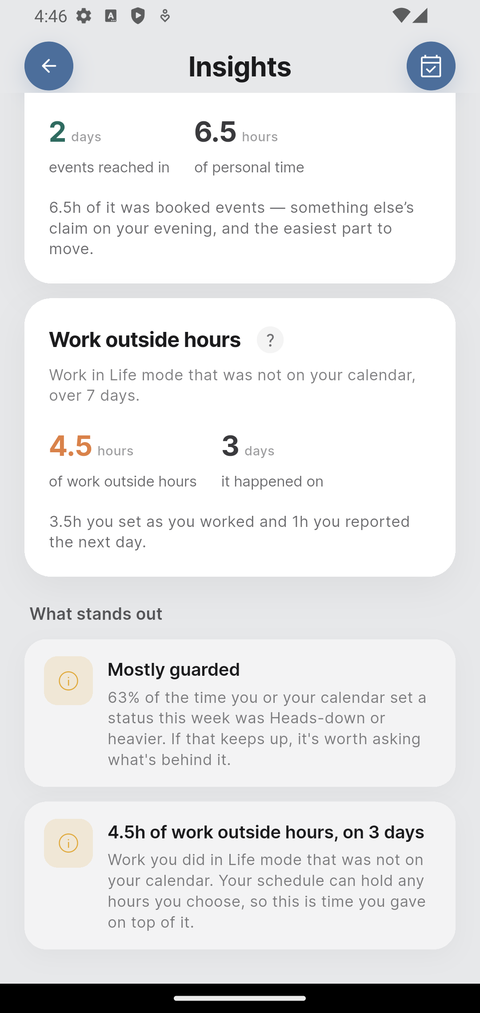
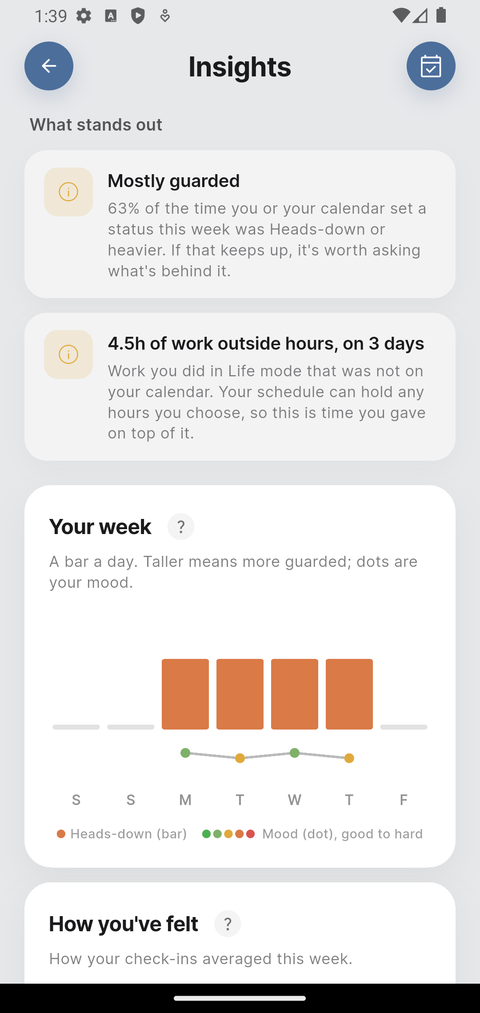
tutorial_insights_order

Changed region(s): [[0.0312, 0.0918, 0.9688, 0.9793], [0.0625, 0.0, 0.1562, 0.0306], [0.875, 0.0, 0.9375, 0.0306]]

diff --git a/tutorial/index.html b/tutorial/index.html
@@ -1514,11 +1514,36 @@
     it says anything; until then it tells you so rather than guessing.
   </p>
 
+  <div class="step" id="insights-what-stands-out">
+    <div class="step-body">
+      <h3><span class="num">1</span>What stands out</h3>
+      <p>
+        Insights opens with what stands out, written in sentences: patterns BAI has noticed across the
+        period, such as most of the week spent Heads-down or heavier, less room as the
+        week goes on, or work outside your hours adding up.
+      </p>
+      <p>
+        Once there have been three overloaded days in four weeks, it also says what
+        happened on them — whether you left <em>Stretched</em> as BAI set it or changed
+        it, by hand or after a check-in — and whether those days felt heavier than the
+        rest.
+      </p>
+      <p class="why">
+        These are observations, not instructions. They are there to be recognised or
+        dismissed.
+      </p>
+    </div>
+    <figure>
+      <img src="img/insights-standout.png" alt="What stands out in Insights, with two observations: Mostly guarded, 63% of the time you or your calendar set a status this week was Heads-down or heavier; and 4.5h of work outside hours, on 3 days">
+      <figcaption>Insights · what stands out</figcaption>
+    </figure>
+  </div>
+
   <div class="step" id="insights-your-week-at-a-glance">
     <div class="step-body">
-      <h3><span class="num">1</span>Your week at a glance</h3>
+      <h3><span class="num">2</span>Your week at a glance</h3>
       <p>
-        Tap <strong>Insights</strong> from the dashboard. The first panel is a bar a day:
+        Under what stands out comes <strong>Your week</strong>, a bar a day:
         taller means more guarded. The dots along it are your mood check-ins, so you can
         see the two move together — or not.
       </p>
@@ -1531,13 +1556,7 @@
 
   <div class="step" id="insights-where-your-time-went-and-how">
     <div class="step-body">
-      <h3><span class="num">2</span>Where your time went, and how you felt</h3>
-      <p>
-        <strong>Where your time went</strong> splits the time a status was set — by you,
-        or by your calendar — by status, so you can see how much of the week you spent
-        holding people off. The status BAI rests on when your mode changes (Available
-        in Life, Busy in Work) is not counted, so your nights are not in it.
-      </p>
+      <h3><span class="num">3</span>How you felt, and where your time went</h3>
       <p>
         <strong>How you've felt</strong> sums up your check-ins in words, not numbers:
         your week's average as a mood — <em>Tired</em>, <em>Absorbed</em>,
@@ -1545,16 +1564,22 @@
         average as a word too. If Life is reading heavier than Work, it says so, which
         is exactly the kind of thing worth noticing.
       </p>
+      <p>
+        <strong>Where your time went</strong> splits the time a status was set — by you,
+        or by your calendar — by status, so you can see how much of the week you spent
+        holding people off. The status BAI rests on when your mode changes (Available
+        in Life, Busy in Work) is not counted, so your nights are not in it.
+      </p>
     </div>
     <figure>
-      <img src="img/insights-mood-words.png" alt="Insights panels showing time split by status, and How you've felt reading Preoccupied on average, with Work at Absorbed and Life at Engaged" onerror="shotMissing(this)">
-      <figcaption>Insights · time and feeling</figcaption>
+      <img src="img/insights-mood-words.png" alt="Insights panels: How you've felt reading Preoccupied on average, with Work at Absorbed and Life at Engaged, then Where your time went split by status" onerror="shotMissing(this)">
+      <figcaption>Insights · feeling and time</figcaption>
     </figure>
   </div>
 
   <div class="step" id="insights-work-hours-kept-or-crossed">
     <div class="step-body">
-      <h3><span class="num">3</span>Work hours, kept or crossed</h3>
+      <h3><span class="num">4</span>Work hours, kept or crossed</h3>
       <p>
         <strong>Work hours</strong> compares the time you actually spent in Work mode
         against the hours you told BAI you work — and how much of it landed outside
@@ -1587,7 +1612,7 @@
 
   <div class="step" id="insights-the-shape-of-your-day">
     <div class="step-body">
-      <h3><span class="num">4</span>The shape of your day</h3>
+      <h3><span class="num">5</span>The shape of your day</h3>
       <p>
         A bar per day showing when work opened and closed. Underneath it, your shortest
         rest between working days and your longest unbroken break.
@@ -1601,7 +1626,7 @@
 
   <div class="step" id="insights-work-outside-hours">
     <div class="step-body">
-      <h3><span class="num">4a</span>Work outside hours <span class="new">New</span></h3>
+      <h3><span class="num">5a</span>Work outside hours <span class="new">New</span></h3>
       <p>
         The work you did in Life mode that was not on your calendar: the time you set
         with the yellow line on the dashboard, and what you answered when BAI asked the
@@ -1617,31 +1642,6 @@
     <figure>
       <img src="img/insights-outside-work.png" alt="The Work outside hours panel in Insights: 4.5 hours worked outside your hours, 3 days with work outside your hours, 3.5 hours set as you worked and 1 hour reported the next day" onerror="shotMissing(this)">
       <figcaption>Insights · work outside hours</figcaption>
-    </figure>
-  </div>
-
-  <div class="step" id="insights-what-stands-out">
-    <div class="step-body">
-      <h3><span class="num">5</span>What stands out</h3>
-      <p>
-        The last panel is written in sentences: patterns BAI has noticed across the
-        period, such as most of the week spent Heads-down or heavier, less room as the
-        week goes on, or work outside your hours adding up.
-      </p>
-      <p>
-        Once there have been three overloaded days in four weeks, it also says what
-        happened on them — whether you left <em>Stretched</em> as BAI set it or changed
-        it, by hand or after a check-in — and whether those days felt heavier than the
-        rest.
-      </p>
-      <p class="why">
-        These are observations, not instructions. They are there to be recognised or
-        dismissed.
-      </p>
-    </div>
-    <figure>
-      <img src="img/insights-standout.png" alt="What stands out in Insights, with two observations: Mostly guarded, 63% of the time you or your calendar set a status this week was Heads-down or heavier; and 4.5h of work outside hours, on 3 days">
-      <figcaption>Insights · what stands out</figcaption>
     </figure>
   </div>
 
